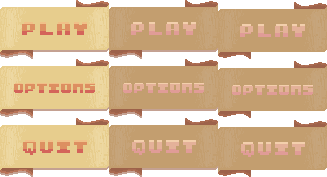
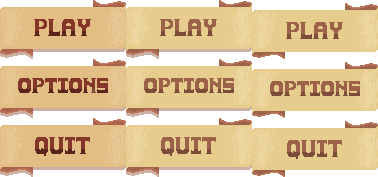
Change UI

diff --git a/src/utilz/Constants.java b/src/utilz/Constants.java
@@ -77,14 +77,14 @@ public class Constants {
 	
 	public static class UI {
 		public static class Buttons {
-			public static final int B_WIDTH_DEFAULT = 109; //140
+			public static final int B_WIDTH_DEFAULT = 126; //140
 			public static final int B_HEIGHT_DEFAULT = 59; //56
 			public static final int B_WIDTH = (int) (B_WIDTH_DEFAULT * 2);
 			public static final int B_HEIGHT = (int) (B_HEIGHT_DEFAULT * 2); //112
 		}
 		
 		public static class PauseButtons {
-			public static final int SOUND_SIZE_DEFAULT = 42;
+			public static final int SOUND_SIZE_DEFAULT = 56;
 			public static final int SOUND_SIZE = (int) (SOUND_SIZE_DEFAULT * Game.SCALE);
 		}
 		
@@ -94,8 +94,8 @@ public class Constants {
 		}
 		
 		public static class VolumeButtons {
-			public static final int VOLUME_DEFAULT_WIDTH = 28;
-			public static final int VOLUME_DEFAULT_HEIGHT = 44;
+			public static final int VOLUME_DEFAULT_WIDTH = 45;
+			public static final int VOLUME_DEFAULT_HEIGHT = 45;
 			public static final int SLIDER_DEFAULT_WIDTH = 215;
 			
 			public static final int VOLUME_WIDTH = (int) (VOLUME_DEFAULT_WIDTH * Game.SCALE);

diff --git a/src/gamestates/Menu.java b/src/gamestates/Menu.java
@@ -41,9 +41,9 @@ private void initClasses() {
 	}
 
 	private void loadButtons() {
-		buttons[0] = new MenuButton(Game.SCREEN_WIDTH/2, (int) (180 * Game.SCALE), 0, Gamestate.PLAYING); //150
-		buttons[1] = new MenuButton(Game.SCREEN_WIDTH/2, (int) (250 * Game.SCALE), 1, Gamestate.OPTIONS); //220
-		buttons[2] = new MenuButton(Game.SCREEN_WIDTH/2, (int) (320 * Game.SCALE), 2, Gamestate.QUIT); //290
+		buttons[0] = new MenuButton(Game.SCREEN_WIDTH/2, (int) (175 * Game.SCALE), 0, Gamestate.PLAYING); //150
+		buttons[1] = new MenuButton(Game.SCREEN_WIDTH/2, (int) (245 * Game.SCALE), 1, Gamestate.OPTIONS); //220
+		buttons[2] = new MenuButton(Game.SCREEN_WIDTH/2, (int) (315 * Game.SCALE), 2, Gamestate.QUIT); //290
 	}
 
 	@Override

diff --git a/src/utilz/LoadSave.java b/src/utilz/LoadSave.java
@@ -29,7 +29,7 @@ public class LoadSave {
 	public static final String MENU_BUTTONS = "buttons/button_atlas.png";
 	public static final String SOUND_BUTTONS = "buttons/sound_button.png";
 	public static final String URM_BUTTONS = "buttons/urm_buttons.png";
-	public static final String VOLUME_BUTTONS = "buttons/volume_buttons.png";
+	public static final String VOLUME_BUTTONS = "buttons/volume_button.png";
 	
 	public static final String HOUSE = "house.png";
 	

diff --git a/src/ui/PauseOverlay.java b/src/ui/PauseOverlay.java
@@ -51,7 +51,7 @@ public class PauseOverlay {
 	}
 
 	private void createSoundButtons() {
-		int soundX = (int) (450 * Game.SCALE);
+		int soundX = (int) (440 * Game.SCALE);
 		int musicY = (int) (140 * Game.SCALE);
 		int sfxY = (int) (186 * Game.SCALE);
 		musicButton = new SoundButton(soundX, musicY, SOUND_SIZE, SOUND_SIZE);
